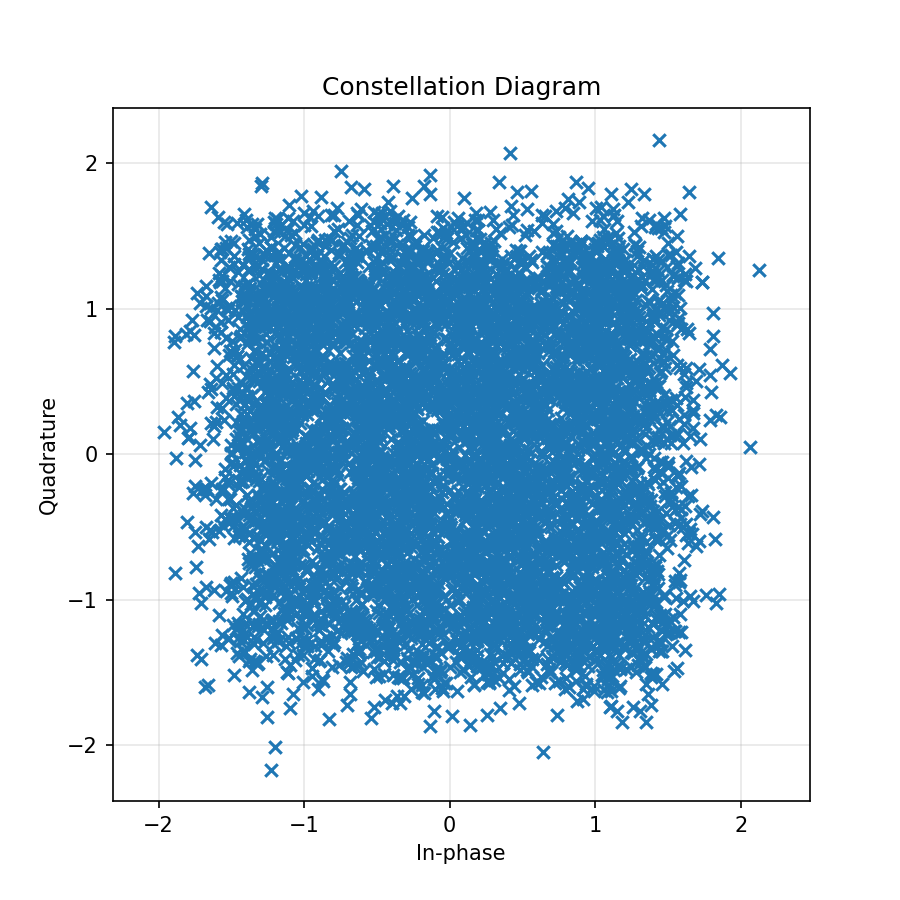
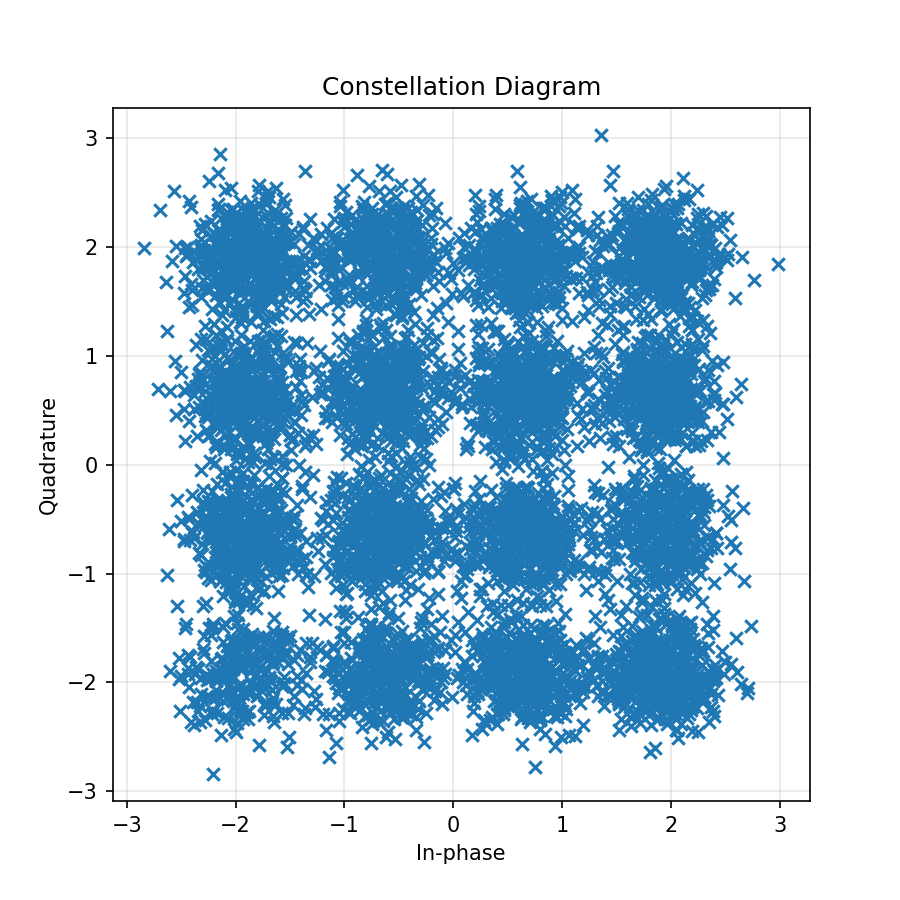
Refactor channel effects function and clean up unused code in main.py

diff --git a/main.py b/main.py
@@ -2,9 +2,9 @@ import numpy as np
 from data.config import PATH, OUTPUT_PATH, MEDIA_PATH
 from scripts.transmitter import (
     appearence_probs, entropy, huffman_algorithm, mean_length, minimum_length, shannon_range, codificate_text, 
-    modulate_symbols, calculate_energies, encode_block,codificate_channel
+    modulate_symbols, calculate_energies,codificate_channel
 )
-from scripts.receiver import decode_text, write_file,code_parameters,decodificate_channel,syndrome_table,syndrome,parity,demodulate_symbols
+from scripts.receiver import decode_text, write_file,code_parameters,decodificate_channel,syndrome_table,parity,demodulate_symbols
 from scripts.extras import plot_char_counts, print_dict, plot_constellation
 from scripts.channel import channel_effects
 
@@ -74,10 +74,6 @@ def codificacion_canal(binary_vector):
     print(f"Syndrome table:\n{S}")
     print(f"dmin: {dmin}", f"e: {e}", f"t: {t}", sep="\n")
 
-    print(f"Original vector:  {binary_vector}")
-    print(f"Encoded vector:   {encoded_vector}")
-    print(f"Decoded vector:   {decoded_vector}")
-
     return encoded_vector
 
 #MODULACION
@@ -100,8 +96,9 @@ def modulacion(binary_vector):
     Eb_N0_linear = Eb_mean / N0
     Eb_N0_dB = 10 * np.log10(Eb_N0_linear)
     print(f"\nEb/N0 = {Eb_N0_dB:.2f} dB")
-    
+
     received_symbols = channel_effects(symbols, N0)
+
 
     # Demodulation sin ruido
     demodulated_binary_vector = demodulate_symbols(symbols, modulation_type, M, code_label, original_length=len(binary_vector))
@@ -127,5 +124,7 @@ if __name__ == "__main__":
     binary_vector = np.array([int(b) for b in ''.join(codified_text)]) # Vector of bits representing the codified text
     encoded_vector = codificacion_canal(binary_vector)
     modulacion(encoded_vector)
+
+    
     
 

diff --git a/scripts/channel.py b/scripts/channel.py
@@ -16,7 +16,8 @@ def awgn(N, N0):
 
 def atenuacion():
 
-    return np.random.uniform(0.5, 0.9)
+    #return np.random.uniform(0.5, 0.9)
+    return 1
 
 def channel_effects (symbols, N0):
 